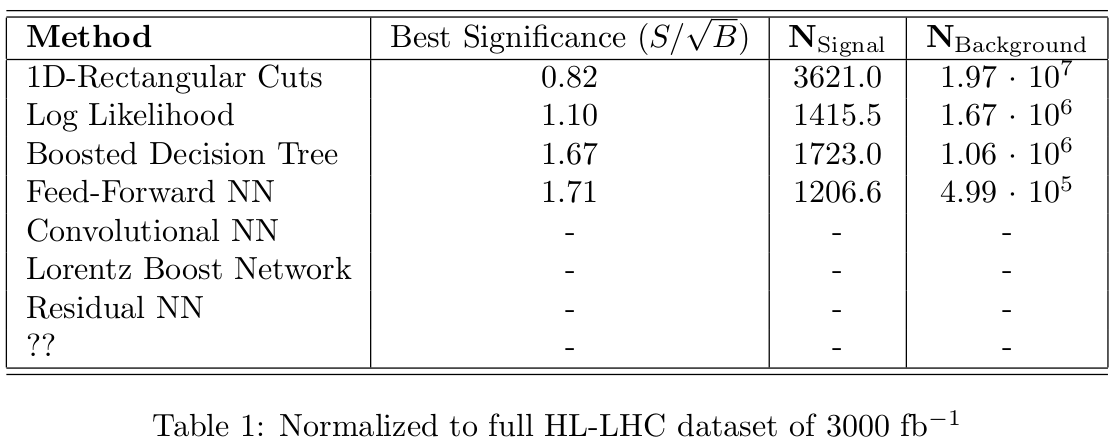
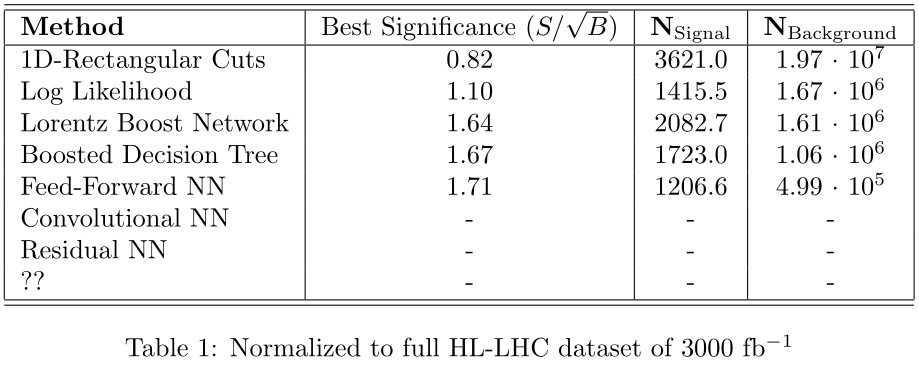
playing around with hyperparameters probably

diff --git a/paper/comparisonTable.tex b/paper/comparisonTable.tex
@@ -10,10 +10,11 @@
       \hline
       1D-Rectangular Cuts & 0.82 & 3621.0 & 1.97  $\cdot$ $10^7$\\
       Log Likelihood & 1.10 & 1415.5 & 1.67 $\cdot$ $10^6$ \\
+      Lorentz Boost Network & 1.64 & 2082.7 & 1.61 $\cdot$ $10^6$ \\
       Boosted Decision Tree & 1.67 & 1723.0 & 1.06 $\cdot$ $10^6$ \\
       Feed-Forward NN & 1.71 & 1206.6 & 4.99 $\cdot$ $10^5$ \\
       Convolutional NN & - & - & - \\
-      Lorentz Boost Network & - & - & - \\
+
       Residual NN & - & - & - \\
       ?? & - & - & - \\
       \hline\hline
